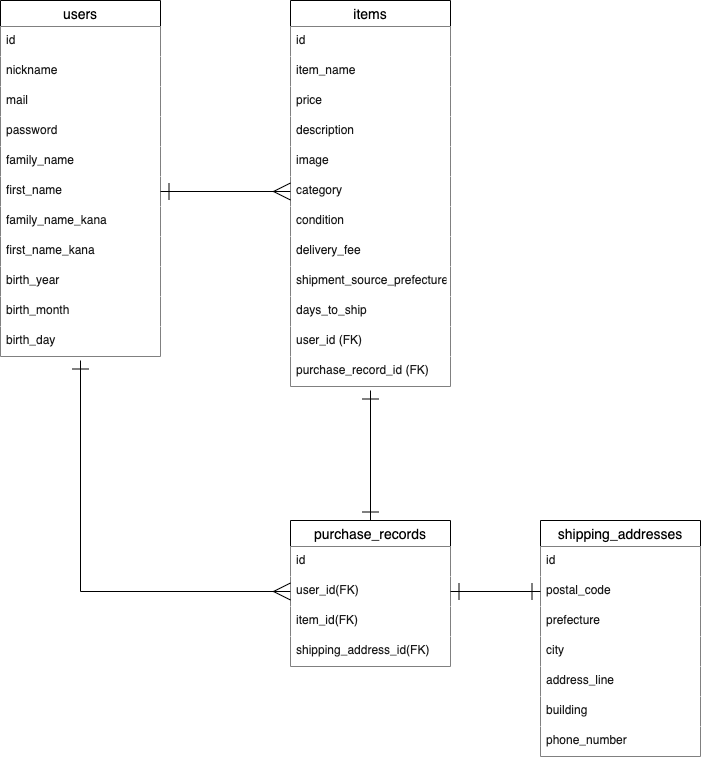
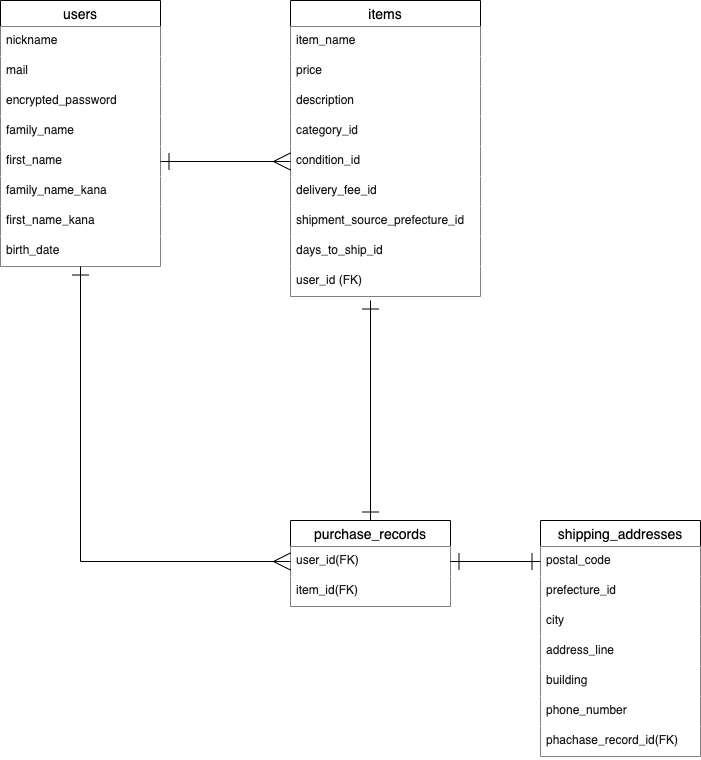
READMEとER図のレビューバック修正

diff --git a/README.md b/README.md
@@ -1,17 +1,15 @@
 ## users
 
-| Column           | Type    | Options                   | 
-| ---------------- | ------- | ------------------------- | 
-| nickname         | string  | null: false, unique: true | 
-| mail             | string  | null: false, unique: true | 
-| password         | integer | null: false               | 
-| family_name      | string  | null: false               | 
-| first_name       | string  | null: false               | 
-| family_name_kana | string  | null: false               | 
-| first_name_kana  | string  | null: false               | 
-| birth_year       | integer | null: false               | 
-| birth_month      | integer | null: false               | 
-| birth_day        | integer | null: false               | 
+| Column             | Type    | Options                   | 
+| ------------------ | ------- | ------------------------- | 
+| nickname           | string  | null: false, unique: true | 
+| mail               | string  | null: false, unique: true | 
+| encrypted_password | integer | null: false               | 
+| family_name        | string  | null: false               | 
+| first_name         | string  | null: false               | 
+| family_name_kana   | string  | null: false               | 
+| first_name_kana    | string  | null: false               | 
+| birth_date         | date    | null: false               | 
 
 ### Association
 has_many :items
@@ -19,19 +17,17 @@ has_many :phachase_records
 
 ## items
 
-| Column                     | Type    | Options                        | 
-| -------------------------- | ------- | ------------------------------ | 
-| item_name                  | string  | null: false                    | 
-| price                      | integer | null: false                    | 
-| description                | text    | null: false                    | 
-| image                      | string  | null: false                    | 
-| category                   | string  | null: false                    | 
-| condition                  | string  | null: false                    | 
-| delivery_fee               | string  | null: false                    | 
-| shipment_source_prefecture | string  | null: false                    | 
-| days_to_ship               | integer | null: false                    | 
-| user_id                    | integer | null: false, foreign_key: true | 
-| purchase_record_id         | integer | foreign_key: true              | 
+| Column                        | Type    | Options                        | 
+| ----------------------------- | ------- | ------------------------------ | 
+| item_name                     | string  | null: false                    | 
+| price                         | integer | null: false                    | 
+| description                   | text    | null: false                    | 
+| category_id                   | integer | null: false                    | 
+| condition_id                  | integer | null: false                    | 
+| delivery_fee_id               | integer | null: false                    | 
+| shipment_source_prefecture_id | integer | null: false                    | 
+| days_to_ship_id               | integer | null: false                    | 
+| user_id                       | integer | null: false, foreign_key: true | 
 
 ### Association
 belongs_to :user
@@ -43,7 +39,6 @@ has_one :phachase_record
 | ------------------- | ------- | ------------------------------ | 
 | user_id             | integer | null: false, foreign_key: true | 
 | item_id             | intefer | null: false, foreign_key: true | 
-| shipping_address_id | integer | null: false, foreign_key: true | 
 
 ### Association
 belongs_to :user
@@ -52,14 +47,15 @@ has_one :shipping_address
 
 ## shipping_addresses
 
-| Column       | Type    | Options     | 
-| ------------ | ------- | ----------- | 
-| postal_code  | string  | null: false | 
-| prefecture   | string  | null: false | 
-| city         | string  | null: false | 
-| address_line | string  | null: false | 
-| building     | string  |             | 
-| phone_number | string  | null: false | 
+| Column             | Type    | Options                        | 
+| ------------------ | ------- | ------------------------------ | 
+| postal_code        | string  | null: false                    | 
+| prefecture_id      | string  | null: false                    | 
+| city               | string  | null: false                    | 
+| address_line       | string  | null: false                    | 
+| building           | string  |                                | 
+| phone_number       | string  | null: false                    | 
+| phachase_record_id | integer | null: false, foreign_key: true |
 
 ### Association
 belongs_to :phachase_record
